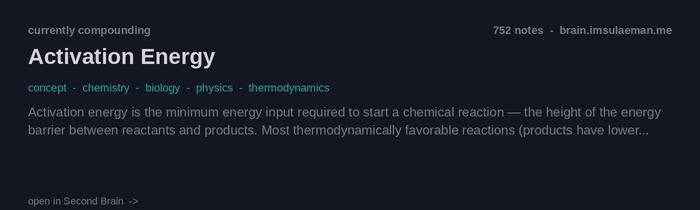
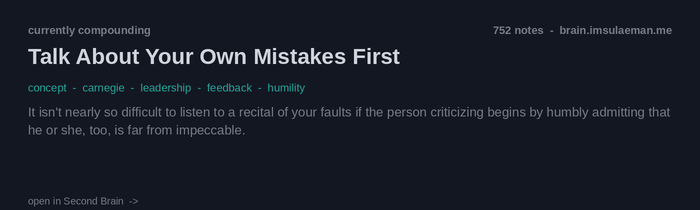
auto: daily profile update

diff --git a/README.md b/README.md
@@ -1,5 +1,5 @@
 <!-- CHART_START -->
-<img src="chart.png?v=20260913" alt="contributions" />
+<img src="chart.png?v=20260914" alt="contributions" />
 <!-- CHART_END -->
 
 
@@ -28,5 +28,5 @@ I identify the problem, design what it should do, and direct the build using AI 
 ---
 Randomly fetch daily from [Second Brain](https://brain.imsulaeman.me)
 <!-- COMPOUNDING_START -->
-<a href="https://brain.imsulaeman.me/note/concepts/activation-energy"><img src="compounding.png?v=20260913" alt="currently compounding" /></a>
+<a href="https://brain.imsulaeman.me/note/concepts/own-mistakes-first"><img src="compounding.png?v=20260914" alt="currently compounding" /></a>
 <!-- COMPOUNDING_END -->
